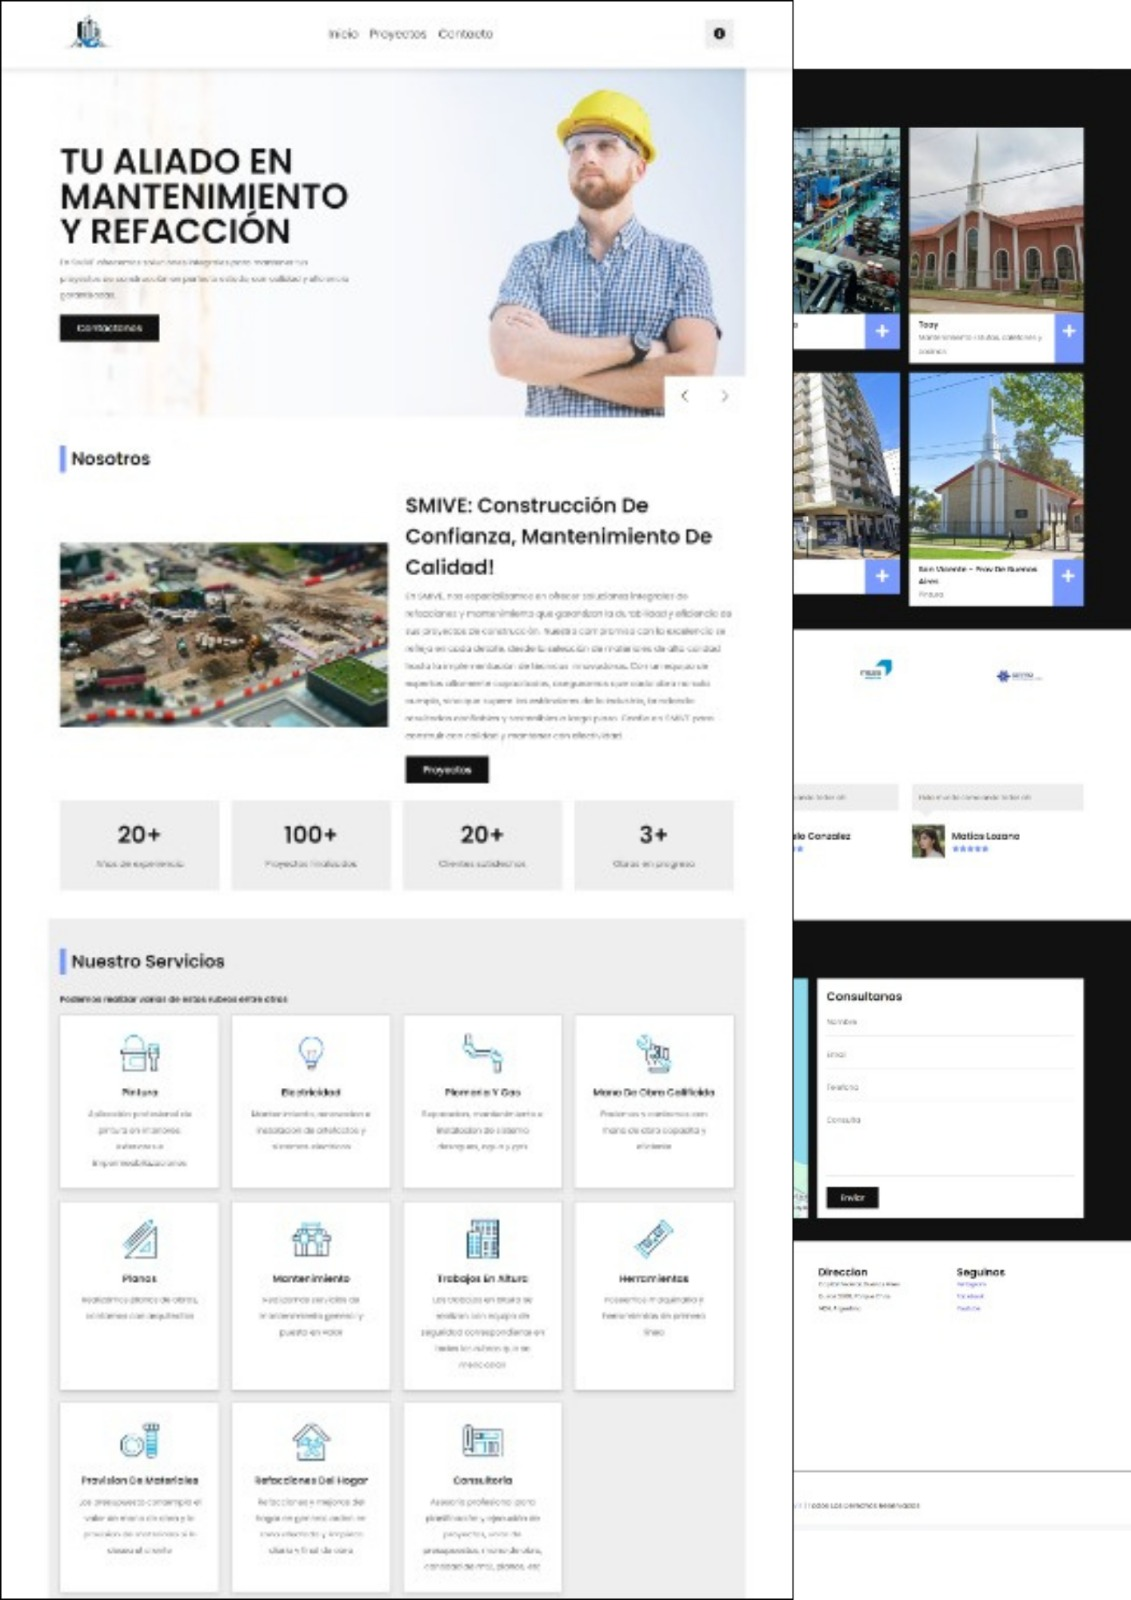
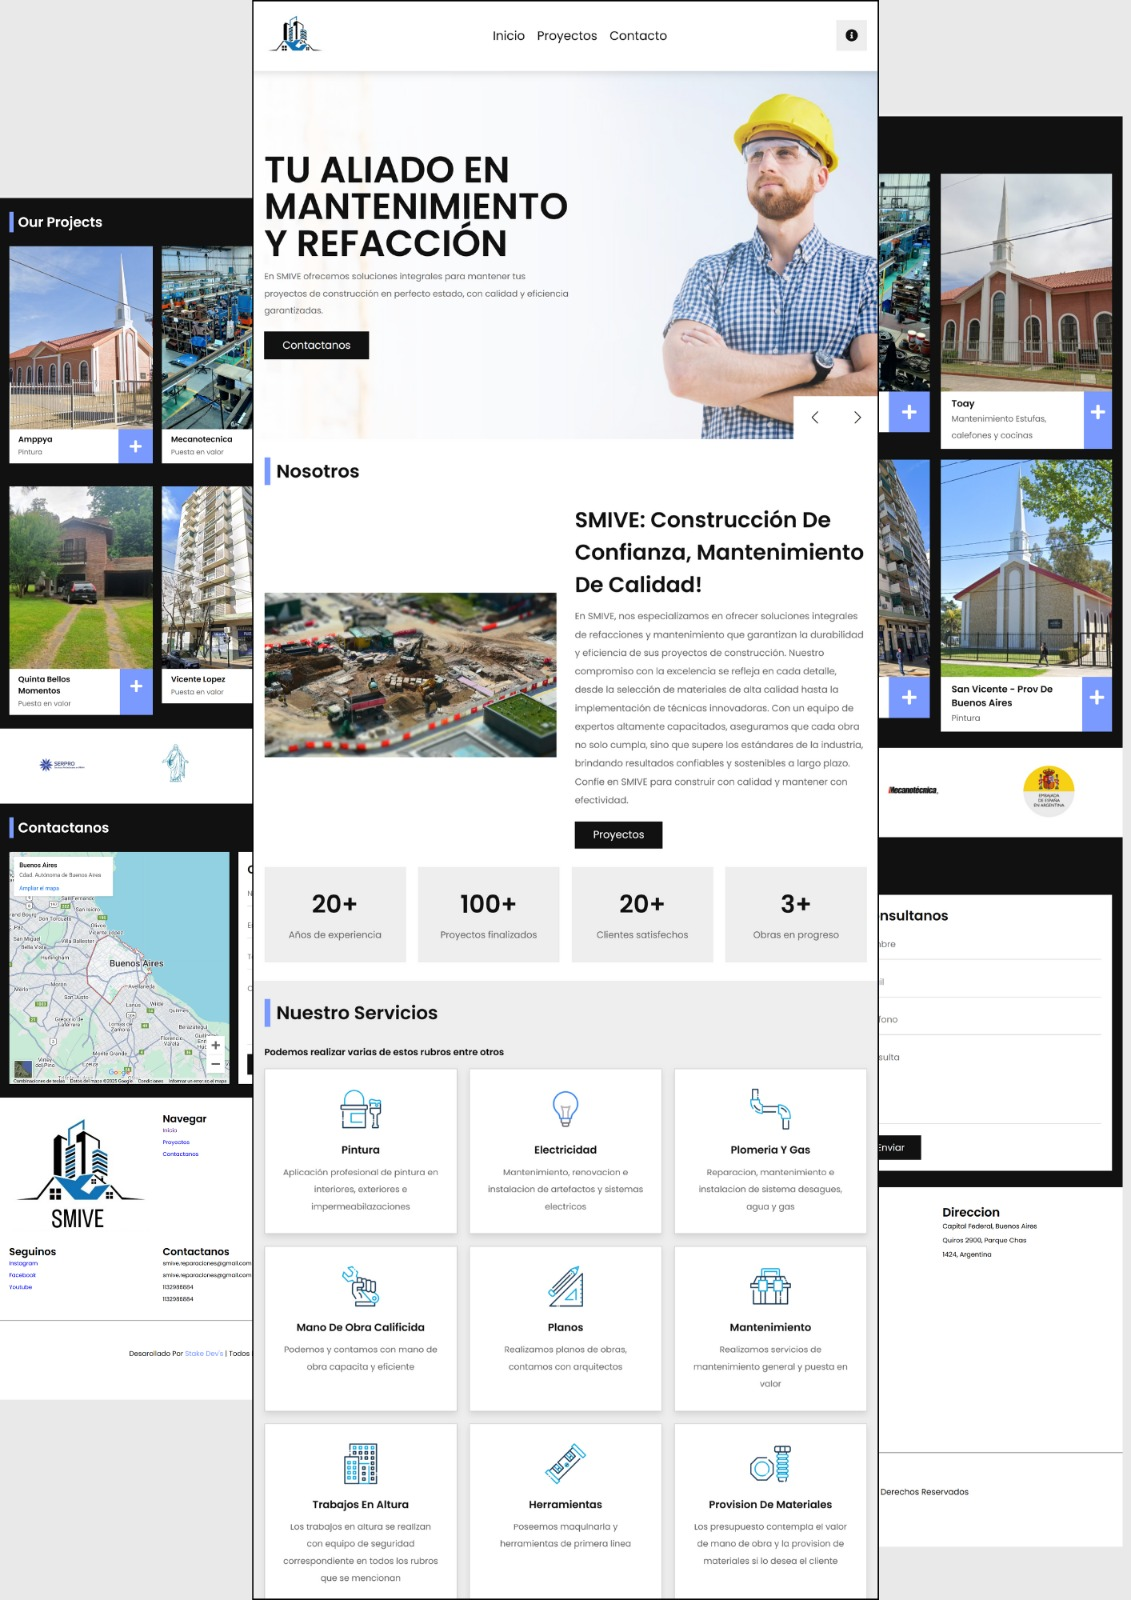
animaciones y fotos

diff --git a/src/js/list.js b/src/js/list.js
@@ -64,11 +64,13 @@ export const cardPortfolio = [
     parrafo:
       "Sitio web para una empresa de refacciones y mantenimiento integral en inmuebles",
     category: "CONSTRUCCION",
-    type:'Presentacion',
+    type: "Presentacion",
     img: "/images/smive-project-hero.jpeg",
-    imgDesk: '/images/smive-project-desk.jpeg',
-    banner: "/images/smive-project-hero.jpeg",
-    resumenMobile: "La empresa de desarrollo web creó una página completa para una empresa de obras, refacciones y mantenimiento integral. La página incluye un formulario de contacto, múltiples secciones con detalles de proyectos realizados, servicios ofrecidos y un diseño intuitivo, destacando la experiencia y profesionalismo de la empresa en cada área.",
+    imgDesk: "/images/smive-project-desk.jpeg",
+    banner: "/images/3.png",
+    resumenMobile:
+      "La empresa de desarrollo web creó una página completa para una empresa de obras, refacciones y mantenimiento integral. La página incluye un formulario de contacto, múltiples secciones con detalles de proyectos realizados, servicios ofrecidos y un diseño intuitivo, destacando la experiencia y profesionalismo de la empresa en cada área.",
+    listDescription: ['Diseño de marca', 'Diseño','Desarrollo Web'],
   },
   {
     id: 1,
@@ -76,11 +78,13 @@ export const cardPortfolio = [
     parrafo:
       "Consultorio odontologico. Necesitaban brindar informacion sobre tratamientos y mostrar sus procedimientos",
     category: "odontologia",
-    type:'Lading Page',
+    type: "Lading Page",
     img: "/images/cios-project-hero.jpeg",
-    imgDesk: '/images/cios-project-desk.jpeg',
+    imgDesk: "/images/cios-project-desk.jpeg",
     banner: "/images/2.jpg",
-    resumenMobile: "La empresa de desarrollo web diseñó una página moderna y funcional para un consultorio odontológico, optimizada para una experiencia de usuario fluida. Incluye información sobre servicios, horarios de atención, equipo profesional y contacto, con un diseño atractivo y adaptable a dispositivos móviles, mejorando la visibilidad online del consultorio.",
+    resumenMobile:
+      "La empresa de desarrollo web diseñó una página moderna y funcional para un consultorio odontológico, optimizada para una experiencia de usuario fluida. Incluye información sobre servicios, horarios de atención, equipo profesional y contacto, con un diseño atractivo y adaptable a dispositivos móviles, mejorando la visibilidad online del consultorio.",
+    listDescription: ['Diseño', 'Desarrollo Web'],
   },
   // {
   //   id: 2,

diff --git a/src/pages/RDPortfolio.jsx b/src/pages/RDPortfolio.jsx
@@ -2,12 +2,17 @@
 import { useParams } from "react-router-dom";
 // import TitleSectionComponent from "../components/TitleSectionComponent";
 import BannerComponent from "../components/BannerComponent";
-import MobileSection from "../components/MobileSection";
+// import MobileSection from "../components/MobileSection";
 import ButtonComponent from "../components/ButtonComponent";
 import { TitleDinamic } from "../js/title-list";
+import TitleSectionComponent from "../components/TitleSectionComponent";
+import { Icon } from "@iconify/react/dist/iconify.js";
+import '../css/mobile-section.css'
 
 function RouteDinamicPortfolio({ cardPortfolio }) {
   const { id } = useParams();
+  const lista = cardPortfolio[id].listDescription;
+
   TitleDinamic(`${cardPortfolio[id].title} - Stake Dev`);
   return (
     <section
@@ -26,12 +31,45 @@ function RouteDinamicPortfolio({ cardPortfolio }) {
 
       <div className="helper" style={{ height: "50px" }}></div>
 
-      <MobileSection
+      {/* <MobileSection
         resumenMobile={cardPortfolio[id].resumenMobile}
         type={cardPortfolio[id].type}
         imgDesk={cardPortfolio[id].imgDesk}
+        img={cardPortfolio[id].img}
         title={cardPortfolio[id].title}
-      />
+        list={cardPortfolio[id].listDescription}
+      /> */}
+
+      <section className="mobile-container">
+        <figure className="description-mobile">
+          <TitleSectionComponent
+            subtitle={cardPortfolio[id].type}
+            title={cardPortfolio[id].title}
+            parrafo={cardPortfolio[id].resumenMobile}
+          />
+          {lista.map((listaDesc, index) => (
+            <div key={index} data-aos='fade-up'>
+              <h2 className="poppins-regular">
+                <span>
+                  <Icon
+                    className="star"
+                    style={{ fontSize: "20px" }}
+                    icon="streamline:star-2-solid"
+                  />
+                </span>{" "}
+                {listaDesc}
+              </h2>
+            </div>
+          ))}
+        </figure>
+        <figcaption className="desk-project-container">
+          <img data-aos='zoom-in' src={cardPortfolio[id].imgDesk} alt="desk" />
+        </figcaption>
+        <figcaption className="hero-project-container">
+          <img data-aos='zoom-in' src={cardPortfolio[id].img} alt="hero" />
+        </figcaption>
+      </section>
+      <div className="helper" style={{ height: "50px" }}></div>
 
       <section
         className="section-width"

diff --git a/src/components/MobileSection.jsx b/src/components/MobileSection.jsx
@@ -3,19 +3,36 @@
 // import desktop from "/images/desktop-mockup.png";
 import TitleSectionComponent from "./TitleSectionComponent";
 import "../css/mobile-section.css";
+import { cardPortfolio } from "../js/list";
+import { useParams } from "react-router-dom";
 function MobileSection(props) {
+  const { id } = useParams();
+
+
+  const listDescription = cardPortfolio[id].listDescription;
+  console.log(listDescription);
+
   return (
     <>
-      <section className="mobile-container"> 
+      <section className="mobile-container">
         <figure className="description-mobile">
           <TitleSectionComponent
             subtitle={props.type}
             title={props.title}
             parrafo={props.resumenMobile}
           />
+
+          {listDescription.map((list, index) => {
+            <div key={index}>
+              <h2>{list.props}</h2>
+            </div>;
+          })}
         </figure>
-        <figcaption>
-          <img src={props.imgDesk} alt="mobile" />
+        <figcaption className="desk-project-container">
+          <img src={props.imgDesk} alt="desk" />
+        </figcaption>
+        <figcaption className="hero-project-container">
+          <img src={props.img} alt="hero" />
         </figcaption>
       </section>
     </>

diff --git a/src/components/NosotrosCardRSection.jsx b/src/components/NosotrosCardRSection.jsx
@@ -18,8 +18,8 @@ function NosotrosCardRSection() {
         </figure>
         <figure className="card-parrafo">
           <div className="title-section-card">
-            <h1 className="oswald-title-card-contact">NUESTROS VALORES.</h1>
-            <p className="poppins-regular">
+            <h1 data-aos='zoom-in' className="oswald-title-card-contact">NUESTROS VALORES.</h1>
+            <p data-aos='zoom-in' className="poppins-regular">
               Estamos aquí para acompañarte en cada etapa, desde la idea inicial
               hasta el despliegue final y más allá. En Stake Dev, no solo
               construimos sitios web; creamos experiencias digitales que
@@ -28,7 +28,7 @@ function NosotrosCardRSection() {
           </div>
           <div className="grid-card-numbers poppins-regular">
             {listNumbers.map((cardsN, key) => (
-              <div key={key} className="card-number">
+              <div data-aos='fade-up' key={key} className="card-number">
                 <p>
                   <h2>
                   <CountUp

diff --git a/src/css/mobile-section.css b/src/css/mobile-section.css
@@ -1,9 +1,15 @@
+.mobile-container .hero-project-container {
+  display: none;
+}
 .mobile-container {
   max-width: 1200px;
   margin: 0 auto;
   display: grid;
-  gap: 1rem;
-  grid-template-columns: repeat(2, 1fr);
+  /* gap: 1rem;
+  grid-template-columns: repeat(2, 1fr); */
+  grid-template-columns: repeat(auto-fit, minmax(350px, 1fr));
+  gap: 50px;
+  justify-content: center;
 }
 
 .mobile-container figcaption,
@@ -12,13 +18,10 @@ img {
 }
 
 @media (max-width: 900px) {
-  .mobile-container {
-    grid-template-columns: repeat(1, 1fr);
+  .mobile-container .hero-project-container {
+    display: block;
   }
-  .mobile-container figcaption {
-    text-align: center;
-  }
-  .mobile-container figcaption img {
-    width: 80%;
+  .mobile-container .desk-project-container {
+    display: none;
   }
 }

diff --git a/src/components/CommentGridSection.jsx b/src/components/CommentGridSection.jsx
@@ -7,13 +7,13 @@ function CommentGridSection() {
     <section className="section-width">
       <section className="grid-section-comment">
         <figure className="frase-container">
-          <h1 className="title oswald-title-comment">
+          <h1 data-aos='zoom-in' className="title oswald-title-comment">
             Nuestro Proposito
             {/* <span>
               <Icon className="star" icon="streamline:star-2-solid" />
             </span> */}
           </h1>
-          <p className="frase-p poppins-regular-italic">
+          <p data-aos='zoom-in' className="frase-p poppins-regular-italic">
             <span className="comillas">"</span>
             Nuestra mision es la excelencia y la aprobacion de nuestro cliente
             <span className="comillas">"</span>

diff --git a/src/App.jsx b/src/App.jsx
@@ -15,12 +15,14 @@ import BasesPage from "./pages/BasesPage";
 import ContactPage from "./pages/ContactPage";
 import ScrollToTop from "./components/scrollToTop";
 import { Toaster } from "react-hot-toast";
-//Importando archivos, lib y suspense
-// import "./config/i18next.config";
-// import { useTranslation } from "react-i18next";
-// import { Suspense } from "react";
+
+import AOS from "aos";
+import "aos/dist/aos.css"; // You can also use <link> for styles
+// ..
 
 function App() {
+  AOS.init({ once: true });
+
   return (
     <>
       {/* Colocammos todo dentro de la etiqueta suspense */}

diff --git a/src/components/NavbarComponentTwo.jsx b/src/components/NavbarComponentTwo.jsx
@@ -47,7 +47,7 @@ function NavbarComponentTwo() {
     >
       <section>
         <Link to="/" className="logo">
-          <img src={Logo} alt="Logo Stake Dev" />
+          <img src={Logo} style={{width:'80px'}} alt="Logo Stake Dev" />
         </Link>
         <div onClick={openMenu} className="abrir-menu" id="abrir-menu">
           <Icon className="icon-dark" icon="material-symbols-light:menu" />

diff --git a/src/components/CardServicesComponent.jsx b/src/components/CardServicesComponent.jsx
@@ -3,7 +3,7 @@ import { Icon } from "@iconify/react/dist/iconify.js";
 import '../css/components-css/card-services-component.css'
 function CardServicesComponent(props) {
   return (
-    <figure className="card-services">
+    <figure className="card-services" data-aos='zoom-in'>
       <div className="icon-container">
         <Icon className="icon-services" icon={props.icon} />
       </div>

diff --git a/src/components/CardPortfolioComponent.jsx b/src/components/CardPortfolioComponent.jsx
@@ -5,7 +5,7 @@ import { Icon } from "@iconify/react/dist/iconify.js";
 
 function CardPortfolioComponent(props) {
   return (
-    <figure className="card-container ">
+    <figure data-aos='zoom-in' className="card-container ">
       <figcaption className="img-porfolio-container">
         <img src={props.img} alt="" />
       </figcaption>
